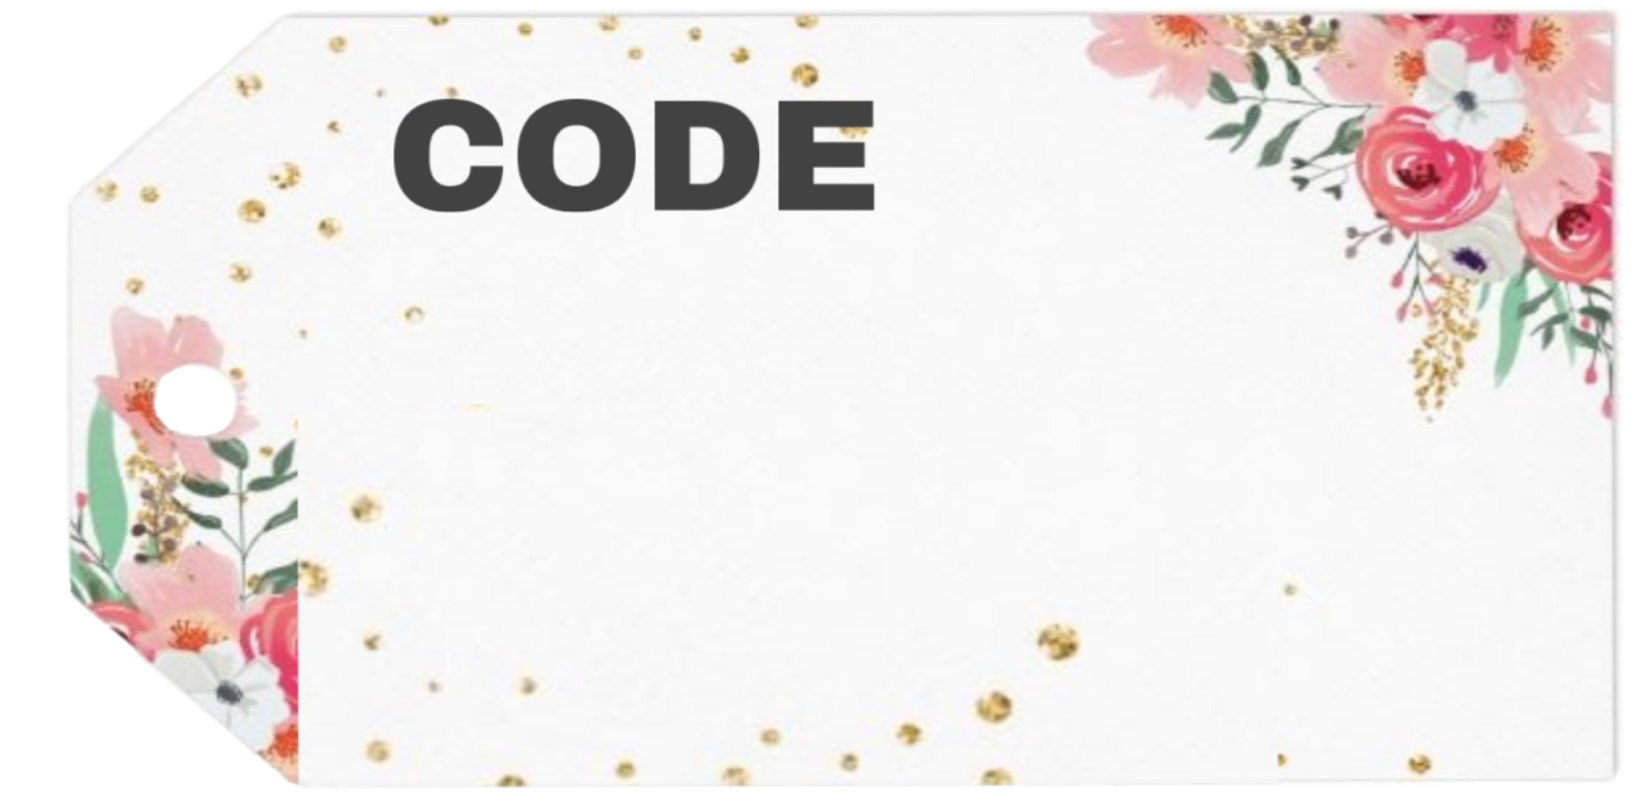
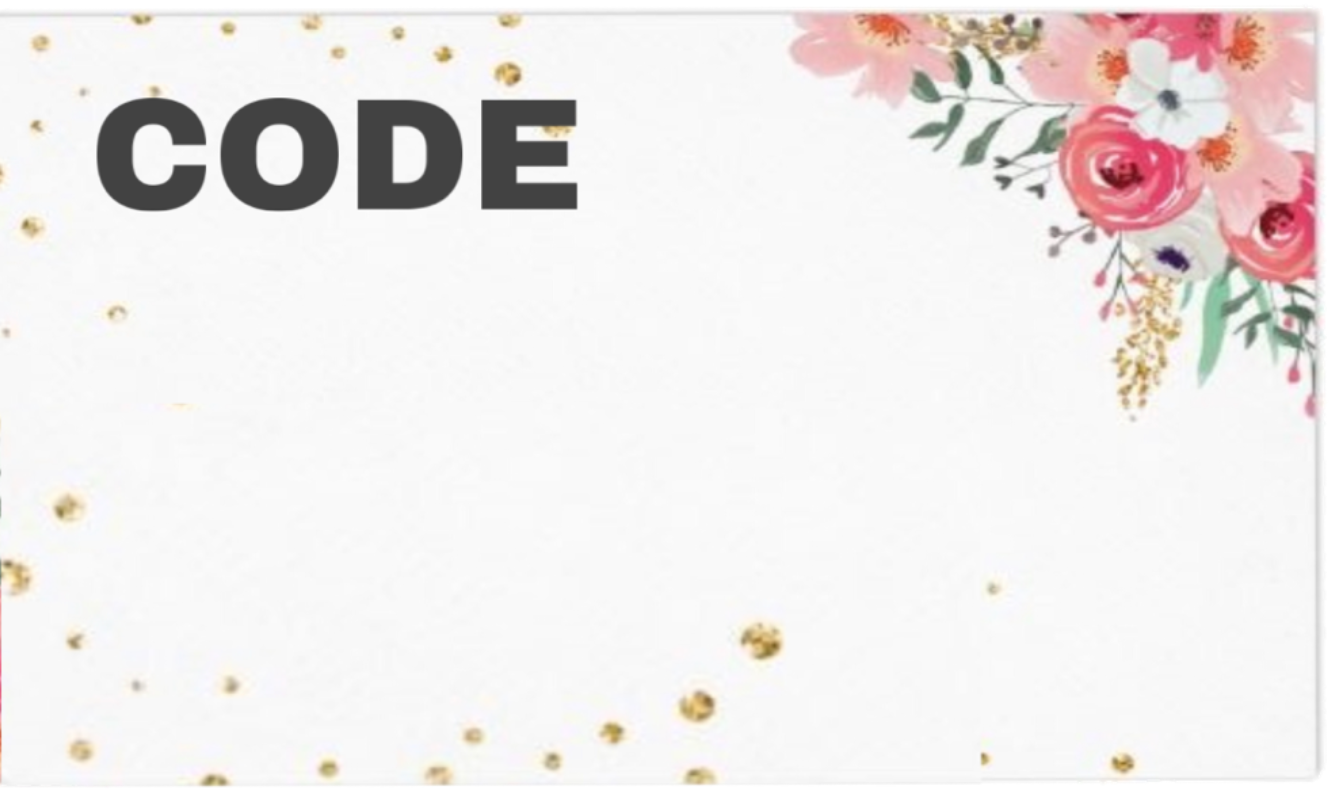
Use new template and update make_size_and_price_image to use new template

diff --git a/prepare_for_publishing.py b/prepare_for_publishing.py
@@ -2,13 +2,21 @@ import argparse
 import os
 import shutil
 
+from PIL import Image, ImageDraw, ImageFont
 from tqdm import tqdm
 
-from PIL import Image, ImageDraw, ImageFont
 ITEM_CODE_TEMPLATE = 'templates/code.PNG'
 ITEM_SIZE_PRICE_TEMPLATE = 'templates/size_price.PNG'
 DONE_DIR = 'done'
-IMG_EXTS =['JPG', 'JPEG']
+IMG_EXTS = ['JPG', 'JPEG']
+
+# RGB Colors
+GRAY = 'rgb(105,105,105)'
+
+# Fonts
+MARKER_FELT = 'MarkerFelt.ttc'
+AMERICAN_TYPEWRITER = 'AmericanTypewriter.ttc'
+ARIAL = 'Arial.ttf'
 
 
 def prepare_for_renaming(dir_path):
@@ -31,6 +39,7 @@ def prepare_for_renaming(dir_path):
             new_path,
         )
 
+
 def prepare_dir_for_publishing(dir_path):
     done_dir = os.path.join(
         dir_path,
@@ -52,7 +61,7 @@ def prepare_dir_for_publishing(dir_path):
                 index,
                 done_dir,
             )
-        except Exception:
+        except Exception as e:
             print(f'Error happened for: {item}')
 
 
@@ -69,11 +78,8 @@ def make_final_image(original_full_path, img_dict):
             img_data['img'].convert('RGBA'),
         )
 
-    # TODO: save final item full path
-    
-
-
     return item
+
 
 def make_size_and_price_image(filename):
     """
@@ -91,12 +97,12 @@ def make_size_and_price_image(filename):
     """
     unique_identifier, size_text, *prices = filename.split('_')
 
-    font_color = 'rgb(105,105,105)'  # Gray
+    font_color = GRAY
     size_price_template = Image.open(ITEM_SIZE_PRICE_TEMPLATE)
     draw_size_price = ImageDraw.Draw(size_price_template)
-    size_price_font = ImageFont.truetype('Arial.ttf', size=350)
-    size_price_x = 300
-    size_price_y = 300
+    size_price_font = ImageFont.truetype(MARKER_FELT, size=300)
+    size_price_x = 325
+    size_price_y = 325
 
     draw_size_price.text(
         (size_price_x, size_price_y),
@@ -106,22 +112,47 @@ def make_size_and_price_image(filename):
     )
 
     price_index_to_label = {
-        0: 'Mine:':,
-        1: 'Steal:',
-        2: 'Grab:',
+        0: 'mine:',
+        1: 'steal:',
     }
 
-    for i, price in enumerate(prices):
-        size_price_y += 400
-        price_text = f'{price_index_to_label[i]} {price}'
-        draw_size_price.text(
-            (size_price_x, size_price_y),
-            price_text,
-            fill=font_color,
-            font=size_price_font,
-        )
+    price_font = ImageFont.truetype(AMERICAN_TYPEWRITER, size=275)
 
-    size_price_img = size_price_template.resize((750, 700))
+    size_price_y += 25
+
+    for i, price in enumerate(prices):
+        size_price_y += 300
+
+        if i == 2:
+            bid_font = ImageFont.truetype(AMERICAN_TYPEWRITER, size=150)
+            size_price_x += 25
+            bid_text_1 = 'Open for bidding!'
+            bid_text_2 = f'Starts at {price}'
+            draw_size_price.text(
+                (size_price_x, size_price_y),
+                bid_text_1,
+                fill=font_color,
+                font=bid_font,
+            )
+            size_price_x += 50
+            bid_font = ImageFont.truetype(AMERICAN_TYPEWRITER, size=175)
+            size_price_y += 150
+            draw_size_price.text(
+                (size_price_x, size_price_y),
+                bid_text_2,
+                fill=font_color,
+                font=bid_font,
+            )
+        else:
+            price_text = f'{price_index_to_label[i]} {price}'
+            draw_size_price.text(
+                (size_price_x, size_price_y),
+                price_text,
+                fill=font_color,
+                font=price_font,
+            )
+
+    size_price_img = size_price_template.resize((900, 900))
 
     return size_price_img
 
@@ -132,27 +163,25 @@ def make_item_code_image(item_code):
 
     :returns: img
     """
-    font_color = 'rgb(105,105,105)'  # Gray
-    item_code = f'{batch}{number:03}'
-    final_item_code_with_text = f'{item_code}.{ext}'
-
+    font_color = GRAY
     code_template = Image.open(ITEM_CODE_TEMPLATE)
     draw_code = ImageDraw.Draw(code_template)
-    code_position = 385, 260
-    code_font = ImageFont.truetype('Arial.ttf', size=400)
+    code_position = 45, 260
+    code_font = ImageFont.truetype(ARIAL, size=350)
     draw_code.text(
         code_position,
         item_code,
         fill=font_color,
         font=code_font,
     )
-    code_img = code_template.resize((600, 250))
+    code_img = code_template.resize((400, 170))
 
     return code_img
 
 
 def generate_item_code(batch, number):
     return f'{batch}{number:03}'
+
 
 def process_image(dir_path, filename, batch, number, done_dir):
     """
@@ -164,7 +193,6 @@ def process_image(dir_path, filename, batch, number, done_dir):
     except Exception:
         return
 
-
     if ext not in IMG_EXTS:
         return
 
@@ -172,41 +200,20 @@ def process_image(dir_path, filename, batch, number, done_dir):
         dir_path,
         filename,
     )
-    images = []
 
     item_code = generate_item_code(batch, number)
     code_img = make_item_code_image(item_code)
-    images.append({
-        'coordinates': (0, 20),
-        'img': code_img,
-    })
-
-
     size_price_img = make_size_and_price_image(filename_no_ext)
-    images.append({
-        'coordinates': (1450, 300),
-        'img': size_price_img,
-    })
-
-
-    final_img = make_final_image(
-        original_item_full_path,
-        images,
-    )
-
-
-
-    final_item_code_with_ext = f'{item_code}.{ext}'
 
     item = Image.open(original_item_full_path)
-
     item_copy = item.copy()
     # Add code to item
-    item_copy.paste(code_img, (0, 20), code_img.convert('RGBA'))
+    item_copy.paste(code_img, (20, 3275), code_img.convert('RGBA'))
     # Add size & price to item
-    item_copy.paste(size_price_img, (1450, 300), size_price_img.convert('RGBA'))
+    item_copy.paste(size_price_img, (1300, 25), size_price_img.convert('RGBA'))
 
     # Use code as filename for edited item
+    final_item_code_with_ext = f'{item_code}.{ext}'
     final_item_full_path = os.path.join(
         dir_path,
         final_item_code_with_ext
@@ -214,7 +221,6 @@ def process_image(dir_path, filename, batch, number, done_dir):
     item_copy.save(final_item_full_path)
 
     # Move processed image to DONE_DIR
-    # TODO: create function
     full_path = os.path.join(
         dir_path,
         filename,
@@ -231,4 +237,3 @@ if __name__ == '__main__':
     arguments = parser.parse_args()
 
     prepare_dir_for_publishing(arguments.dir_path)
-
